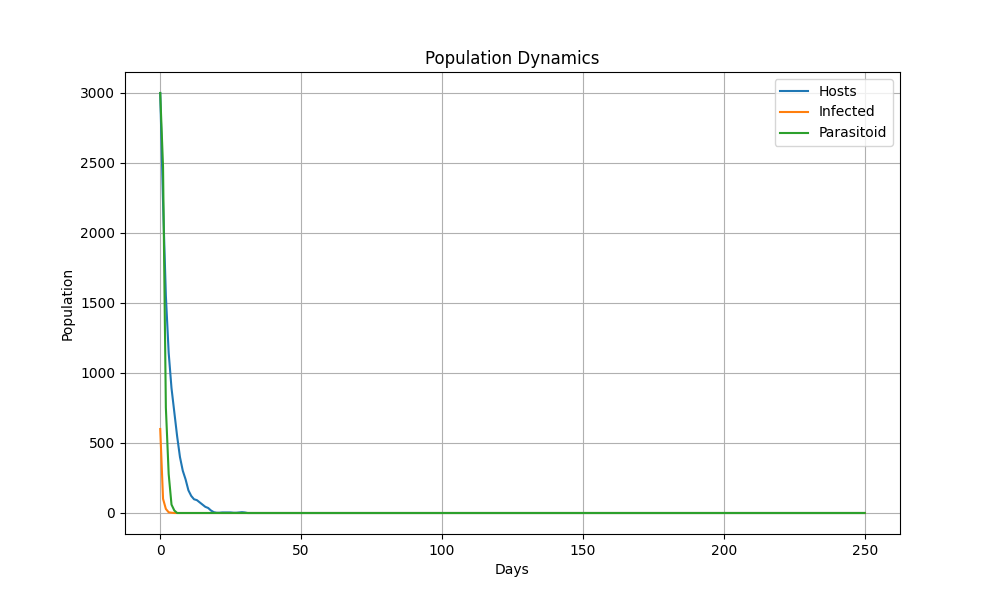
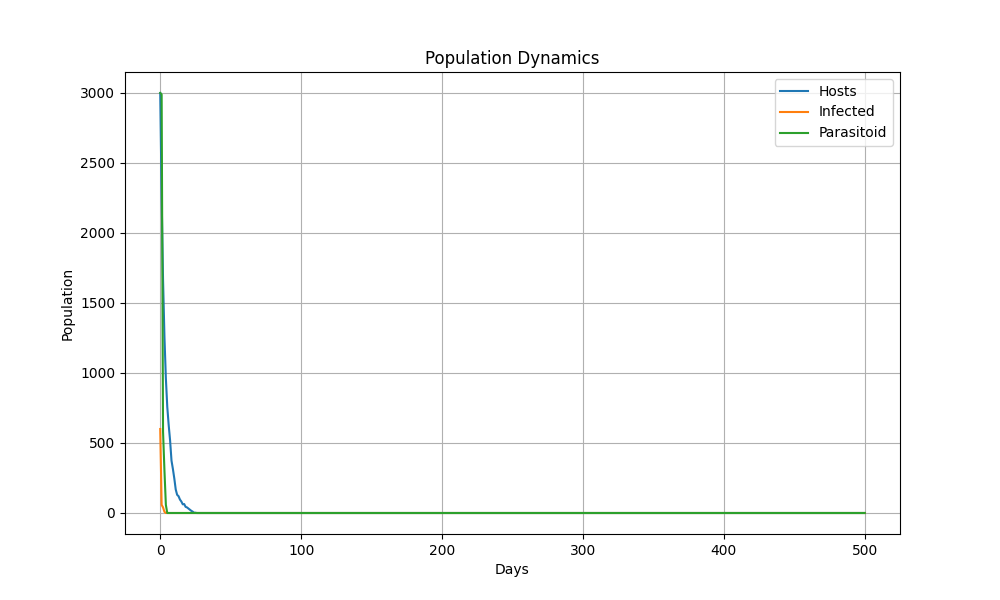
docker infra

diff --git a/src/rafikov/main.py b/src/rafikov/main.py
@@ -5,10 +5,22 @@ from populations.Individual import *
 import numpy as np
 from plot.Parameter import Parameter
 from plot.plot import plot
+from populations.Day import Day
+from dotenv import load_dotenv
+import os
 
+
+output_dir = '/app/graphs'
+if not os.path.exists(output_dir):
+    os.makedirs(output_dir)
+    
+load_dotenv()
+eq = os.getenv('EQUILIBRIUM')
 # dHdt = r * (1 - H / K) * H - n1 * H - beta * H * P
 # dIdt = beta * H * P - m2 * I - n2 * I
 # dPdt = gamma * n2 * I - m3 * P
+
+daysList = []
 
 def initialValues(hosts, infected, parasitoid): 
     return [
@@ -17,7 +29,7 @@ def initialValues(hosts, infected, parasitoid):
         parasitoid
     ]
 
-def execute(equilibrium: Equilibrium):
+def execute(equilibrium: Equilibrium, days = 500):
 
     '''
     --------------------
@@ -39,8 +51,6 @@ def execute(equilibrium: Equilibrium):
     infectedInterval = e.getSecondLineInterval(params)
     parasitoidInterval = e.getThirdLineInterval(params)
 
-
-    days = 250
     dataHosts = [
         hosts.currentPopulation
     ]
@@ -53,16 +63,12 @@ def execute(equilibrium: Equilibrium):
     dataDays = []
     
     for day in range(days):
-
         dataDays.append(day)
-        infectedHosts = hosts.monteCarlo(hostInterval)
+        hosts.monteCarlo(hostInterval)
         
-        deadInfected = infected.monteCarlo(infectedInterval)
+        infected.monteCarlo(infectedInterval)
         
         parasitoid.monteCarlo(parasitoidInterval)
-        
-        infected.updateCurrentPopulation(infected.currentPopulation + infectedHosts)
-        parasitoid.updateCurrentPopulation(parasitoid.currentPopulation - deadInfected)
 
         e = Equation(initialValues(
             hosts.currentPopulation,
@@ -78,6 +84,9 @@ def execute(equilibrium: Equilibrium):
         dataInfected.append(infected.currentPopulation)
         dataParasitoid.append(parasitoid.currentPopulation)
 
+        daysList.append(Day(day+1, hosts.currentPopulation, infected.currentPopulation, parasitoid.currentPopulation))
+        
+        '''==============================================='''
     params = [
         Parameter(dataHosts, "Hosts"),
         Parameter(dataInfected, "Infected"),
@@ -87,8 +96,52 @@ def execute(equilibrium: Equilibrium):
     paramDay = Parameter(dataDays, "Days")
     name = f'graphs/rafikov{equilibrium.name.lower()}.png' 
     plot(paramDay, params, name)
-    print(hosts.currentPopulation)
-    print(infected.currentPopulation)
-    print(parasitoid.currentPopulation)
+    
+    # print(hosts.currentPopulation)
+    # print(infected.currentPopulation)
+    # print(parasitoid.currentPopulation)
+    
 
-execute(Equilibrium.FIRST)
+
+for _ in range(500):
+    execute(Equilibrium[eq])
+
+medias = {}
+
+for i in range(500):
+    dia = list(filter(lambda x: x.day == i + 1, daysList))
+    
+    if dia:
+        hosts_values = [d.hosts for d in dia]
+        infected_values = [d.infected for d in dia]
+        parasitoid_values = [d.parasitoids for d in dia]
+        
+        meanHosts = sum(hosts_values) / len(hosts_values)
+        meanInfected = sum(infected_values) / len(infected_values)
+        meanParasitoid = sum(parasitoid_values) / len(parasitoid_values)
+        
+        medias[i + 1] = [meanHosts, meanInfected, meanParasitoid]
+    else:
+        print(f"Nenhum dado para o dia {i + 1}")
+        
+mediaHosts = [medias[day][0] for day in range(1, 251)]
+mediaInfected = [medias[day][1] for day in range(1, 251)]
+mediaParasitoid = [medias[day][2] for day in range(1, 251)]
+
+
+paramDay = Parameter(list(range(1, 251)), "Days")
+
+params = [
+    Parameter(mediaHosts, "Hosts (Média)"),
+    Parameter(mediaInfected, "Infected (Média)"),
+    Parameter(mediaParasitoid, "Parasitoid (Média)")
+]
+
+name = f'graphs/medias_populacao-{eq}.png'
+
+plot(paramDay, params, name)
+
+
+# print(daysList[0].day)
+    # execute(Equilibrium.SECOND)
+    # execute(Equilibrium.THIRD)

diff --git a/src/rafikov/populations/Individual.py b/src/rafikov/populations/Individual.py
@@ -11,7 +11,9 @@ class Individual:
         self.currentPopulation = newValue
 
     def applyEffect(self, interval: Interval):
-        if interval.effect == Effect.DIE:
+        if self.currentPopulation == 0:
+            self.currentPopulation = self.currentPopulation
+        elif interval.effect == Effect.DIE:
             self.currentPopulation -= 1
         elif interval.effect == Effect.LIVE:
             self.currentPopulation += 1
@@ -23,18 +25,15 @@ class Host(Individual):
         
         
     def monteCarlo(self, interval: list[Interval]):
-        deadHosts = 0
+        # deadHosts = 0
         for i in range(self.currentPopulation):
             value = np.random.uniform(0, interval[-1].value)
             if value > 0 and value < interval[0].value:
                 self.applyEffect(interval[0])
             elif value <= interval[1].value:
                 self.applyEffect(interval[1])
-                # deadHosts += 1
             elif value <= interval[2].value:
                 self.applyEffect(interval[2])
-                deadHosts += 1
-        return deadHosts
     
 class Infected(Individual):
     def __init__(self, initialPopulation: int):
@@ -42,30 +41,23 @@ class Infected(Individual):
         
         
     def monteCarlo(self, interval: list[Interval]):
-        dead = 0
         for i in range(self.currentPopulation):
             value = np.random.uniform(0, interval[-1].value)
             if value > 0 and value <= interval[0].value:
-                self.applyEffect(interval[0]) #IRÁ REPRODUZIR?
+                self.applyEffect(interval[0])
             elif value <= interval[1].value:
                 self.applyEffect(interval[1])
-                dead += 1
             elif value <= interval[2].value:
                 self.applyEffect(interval[2])
-                dead += 1
-        return dead
     
 class Parasitoid(Individual):
     def __init__(self, initialPopulation: int):
         super().__init__(initialPopulation)
         
     def monteCarlo(self, interval: list[Interval]):
-        hostsInfected = 0
         for i in range(self.currentPopulation):
             value = np.random.uniform(0, interval[-1].value)
-            if value <= interval[0].value: # 1st interval
+            if value <= interval[0].value:
                 self.applyEffect(interval[0])
             elif value <= interval[1].value:
-                self.applyEffect(interval[1]) # 2nd interval
-            # print(individual.currentPopulation)
-        return hostsInfected
+                self.applyEffect(interval[1])

diff --git a/src/rafikov/populations/Day.py b/src/rafikov/populations/Day.py
@@ -1,0 +1,10 @@
+class Day:
+    
+    def __init__(self, day: int, hosts: int, infected: int, parasitoids: int):
+        self.day = day
+        self.hosts = hosts
+        self.infected = infected
+        self.parasitoids = parasitoids
+    
+    def __str__(self):
+        return f"{self.day},{self.hosts},{self.infected},{self.parasitoids}"

diff --git a/src/rafikov/Equation.py b/src/rafikov/Equation.py
@@ -46,7 +46,7 @@ class Equation:
         
         values = [
             Interval(firstTerm, Effect.LIVE),
-            Interval(firstTerm + secondTerm, Effect.DIE),
+            Interval(firstTerm + secondTerm, Effect.DIE)
         ]
         
         return values

diff --git a/src/rafikov/plot/plot.py b/src/rafikov/plot/plot.py
@@ -13,3 +13,4 @@ def plot(days: list[Parameter], params: list[Parameter], name: str):
         plt.legend()
         plt.grid()
         plt.savefig(name)
+        plt.close()
